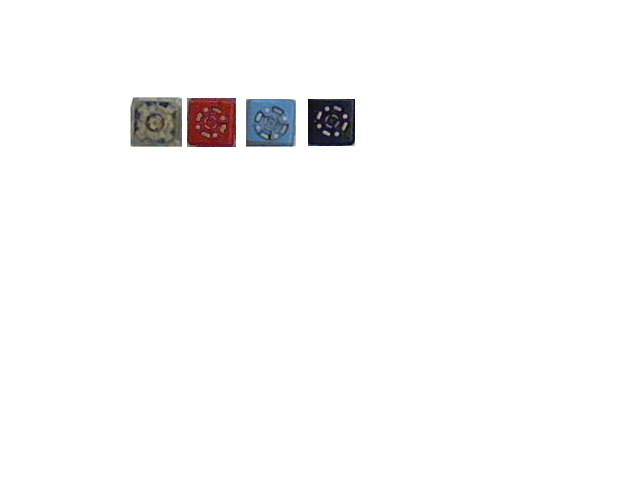
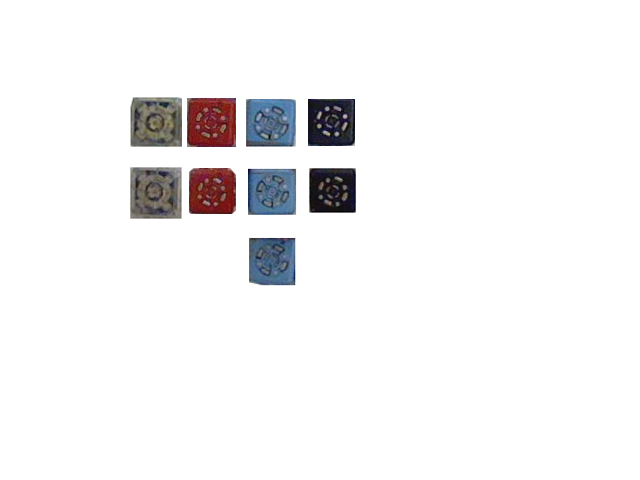
Added new template info xml, updated master template image, updated rotational matching demo

Changed region(s): [[0.1875, 0.3438, 0.5625, 0.5938]]

diff --git a/cubelets_vision/CubeletDetection.py b/cubelets_vision/CubeletDetection.py
@@ -737,90 +737,119 @@ def avgPointCenter(matchList):
 
 	return (avgx,avgy)
 
+def getTemplateInfo():
+	templateInfoPath = "images/webcam/low-res-white/template_info.xml"
+	tree = ET.parse(templateInfoPath)
+	MASTER_TEMPLATE_NAME = "isolatedTemplates.png"
+	cubes = tree.findall("image[@name='" + MASTER_TEMPLATE_NAME + "']/cube")
+	cubeList = {}
 
-def rotationMatchDemo():
-	targetPath = "images/webcam/low-res-white/13.jpg"
+	for cube in cubes:
+		color = cube.attrib["color"]
+		x = int(cube.attrib["x"])
+		y = int(cube.attrib["y"])
+		r = int(cube.attrib["r"])
+		if (color in cubeList):
+			cubeList[color].append(((x,y),r))
+		else:
+			cubeList[color] = [((x,y),r)]
+
+	return cubeList
+
+def rotationMatchDemo(angles = 6):
+	# Check in 15 degree increments
+	targetPath = "images/webcam/low-res-white/18.jpg"
 	templatePath = "images/webcam/low-res-white/isolatedTemplates.png"
-	templateRadius = 17
-	templateCenter = (271,122)	# Blue Cube
-
 	target = cv.LoadImageM(targetPath, cv.CV_LOAD_IMAGE_COLOR)
 	templateSet = cv.LoadImageM(templatePath, cv.CV_LOAD_IMAGE_COLOR)
 
-	possibleMatches = []
+	markerColor = {'black':(0,0,0),'red':(0,0,255),'clear':(255,255,255),'bluetooth':(255,0,0)}
 
-	angles = 6		# Check in 15 degree increments
-	for i in range(0,angles):
-		# Create Rotated Template
-		degrees = i*(90/angles)
-		rotated = rotateImage(templateSet,templateCenter,degrees)
-		#cv.ShowImage('templater'+str(i),rotated)
-		template = subImage(rotated,templateCenter,templateRadius)
-		#cv.ShowImage('template'+str(i),template)
+	# Test over a set of example images
+	cubeList = getTemplateInfo()
+	for cubeType in cubeList:
+		print "Cube Type: ",cubeType
+		possibleMatches = []
+		for (templateCenter,templateRadius) in cubeList[cubeType]:
+#	for templateCenter in templateCenters:
+			# For each example image, test several rotations
+			for i in range(0,angles):
+				# Create Rotated Template
+				degrees = i*(90/angles)
+				rotated = rotateImage(templateSet,templateCenter,degrees)
+				#cv.ShowImage('templater'+str(i),rotated)
+				template = subImage(rotated,templateCenter,templateRadius)
+				#cv.ShowImage('template'+str(i),template)
 
-		# Establish Offset Parameters
-		rh = 1+target.height-template.height
-		rw = 1+target.width-template.width
-		offsetX = target.width-rw
-		offsetY = target.height-rh
+				# Establish Offset Parameters
+				rh = 1+target.height-template.height
+				rw = 1+target.width-template.width
+				offsetX = target.width-rw
+				offsetY = target.height-rh
 
-		# Perform Matching
-		result = cv.CreateMat(rh, rw, cv.CV_32FC1)
-		cv.MatchTemplate(target, template, result, cv.CV_TM_SQDIFF_NORMED)
+				# Perform Matching
+				result = cv.CreateMat(rh, rw, cv.CV_32FC1)
+				cv.MatchTemplate(target, template, result, cv.CV_TM_SQDIFF_NORMED)
 
-		# Locate Points of Best Match
-		resultList = []
-		for y in range(0,result.height):
-			for x in range(0,result.width):
-				resultList.append((result[y,x],(x,y)))
+				# Locate Points of Best Match
+				resultList = []
+				for y in range(0,result.height):
+					for x in range(0,result.width):
+						resultList.append((result[y,x],(x,y)))
 
-		sortedResults = sorted(resultList, key=lambda point: point[0])
-		for j in range(0,10):
-			#print sortedResults[j], sortedResults[0][0]/sortedResults[j][0]
-			# Collect and mark possible matches
-			# Consider a possible match if the match is within 90% of the best match
-			# NOTE: Need to add threshold on best match to determine if
-			# there are no matches in the image.
-			if (sortedResults[0][0]/sortedResults[j][0] > 0.9):
-				cv.Circle(result, sortedResults[j][1], 3, 255)
-				possibleMatches.append(sortedResults[j])
-		cv.ShowImage("result"+str(i),result)
-
-	# Cluster based on distance
-	clusters = [[]]
-	cubeRadius = 15
-	for match in possibleMatches:
-		k = 0
-		foundCluster = 0
-		while (k < len(clusters))&(foundCluster == 0):
-			if (len(clusters[k]) == 0):
-				clusters[k].append(match)
-				foundCluster = 1
-			else:
-				clusterCenter = avgPointCenter(clusters[k])
-				if (pixelDist(clusterCenter,match[1]) < cubeRadius):
+				sortedResults = sorted(resultList, key=lambda point: point[0])
+				for j in range(0,10):
+					#print sortedResults[j], sortedResults[0][0]/sortedResults[j][0]
+					# Collect and mark possible matches
+					# Consider a possible match it is within 90% of the best match
+					# NOTE: Need to add threshold on best match to determine if
+					# there are no matches in the image.
+					if (sortedResults[0][0]/sortedResults[j][0] > 0.9):
+						cv.Circle(result, sortedResults[j][1], 3, 255)
+						possibleMatches.append(sortedResults[j])
+				# Show Match level for each rotation
+				#cv.ShowImage("result"+str(i),result)
+			#
+		# Cluster based on distance
+		clusters = [[]]
+		cubeRadius = 15
+		for match in possibleMatches:
+			k = 0
+			foundCluster = 0
+			while (k < len(clusters))&(foundCluster == 0):
+				if (len(clusters[k]) == 0):
 					clusters[k].append(match)
 					foundCluster = 1
-			k += 1
-		if (foundCluster == 0):
-			clusters.append([match])
+				else:
+					clusterCenter = avgPointCenter(clusters[k])
+					if (pixelDist(clusterCenter,match[1]) < cubeRadius):
+						clusters[k].append(match)
+						foundCluster = 1
+				k += 1
+			if (foundCluster == 0):
+				clusters.append([match])
 
-	# Calculate the center of each cluster, offset to match the center of the template
-	clusterCenters = []
-	for cluster in clusters:
-		center = avgPointCenter(cluster)
-		center = (center[0] + templateRadius,center[1] + templateRadius)
+		# Calculate the center of each cluster, 
+		# offset to match the center of the template
+		clusterCenters = []
+		for cluster in clusters:
+			center = avgPointCenter(cluster)
+			center = (center[0] + templateRadius,center[1] + templateRadius)
 
-		clusterCenters.append(center)
+			clusterCenters.append(center)
 
-	# Mark the matches on the target image
-	target = cv.LoadImageM(targetPath, cv.CV_LOAD_IMAGE_COLOR)
-	for center in clusterCenters:
-		color = (255,0,0) #randColorTriplet()
-		cv.Circle(target,center,templateRadius,color)
+		# Mark the matches on the target image
+		print "Marking Cube Type: ",cubeType
+		print "Matches: ", len(clusterCenters)
+		for center in clusterCenters:
+			color = markerColor[cubeType]
+			cv.Circle(target,center,templateRadius,color)
+
+
 	cv.ShowImage("clusters",target)
 
 	cv.WaitKey()
+
 
 
 
